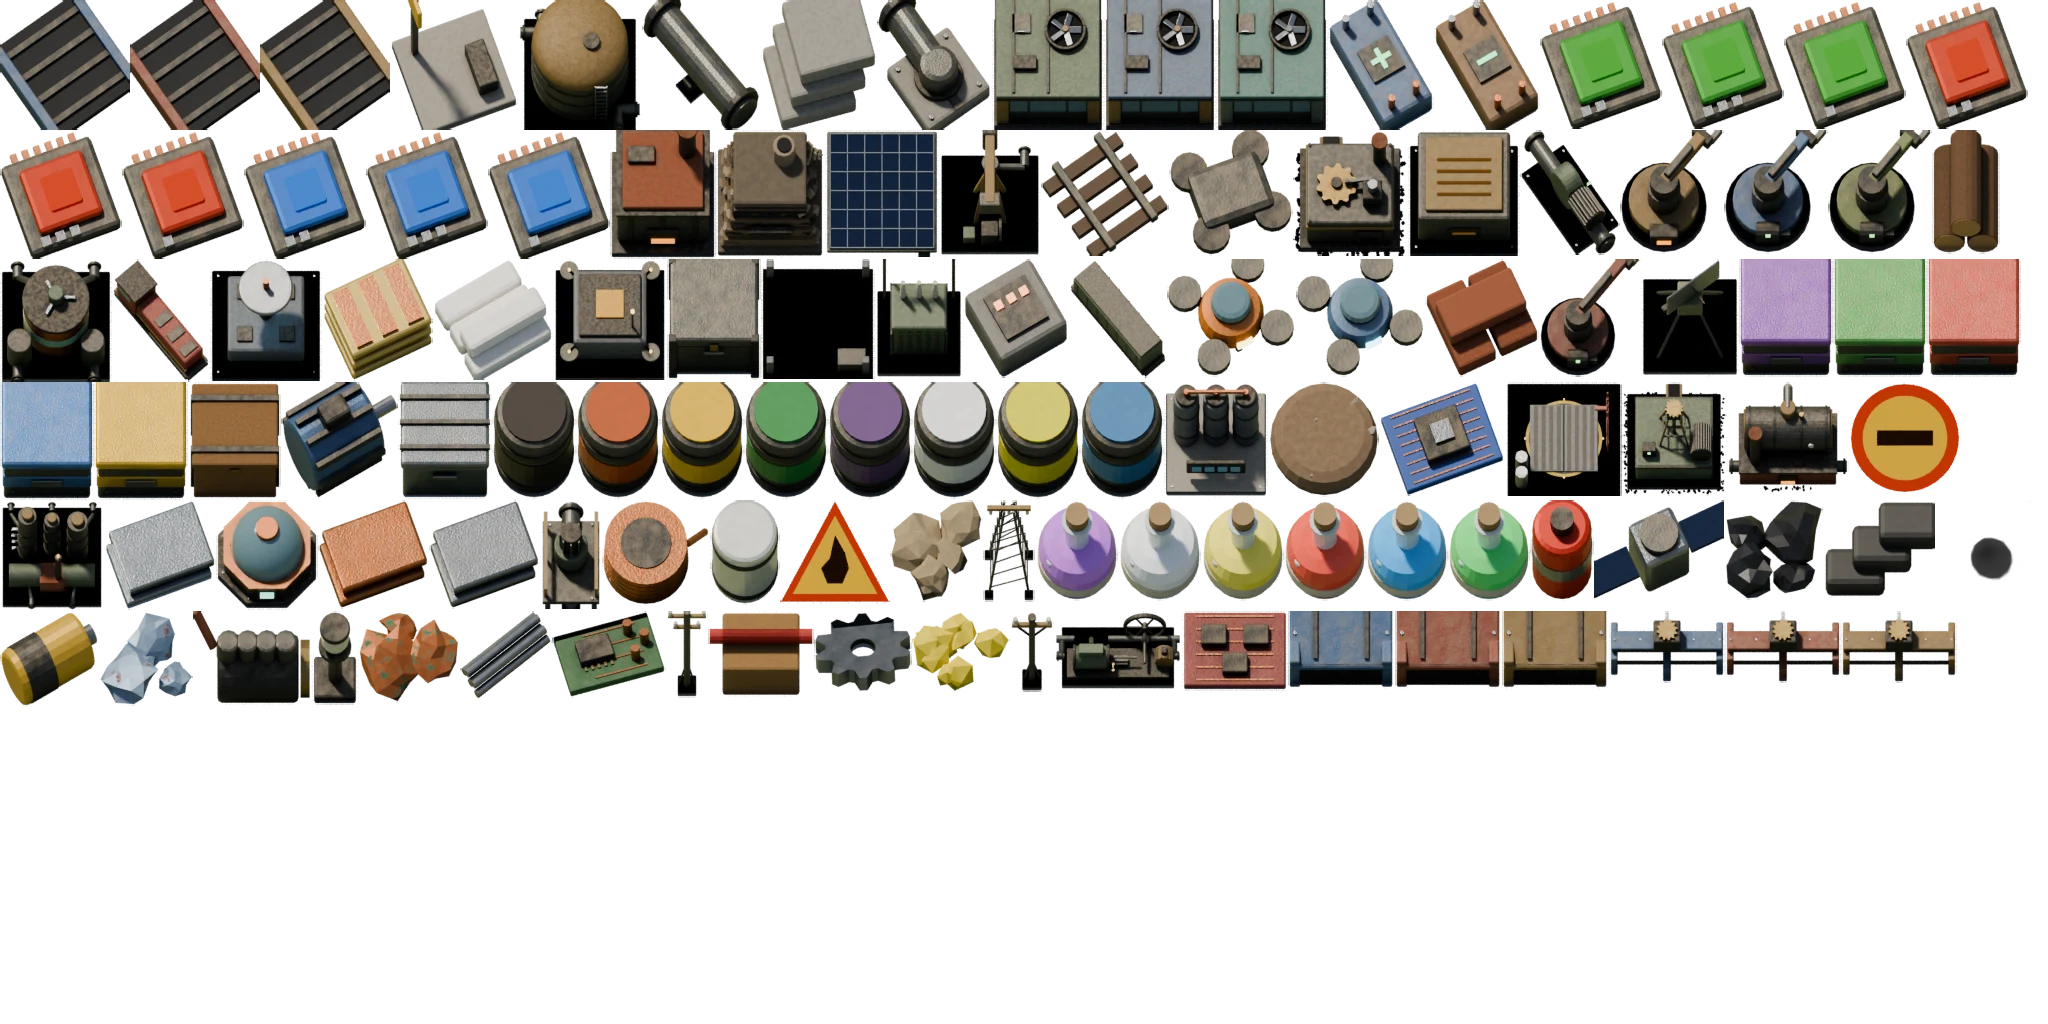
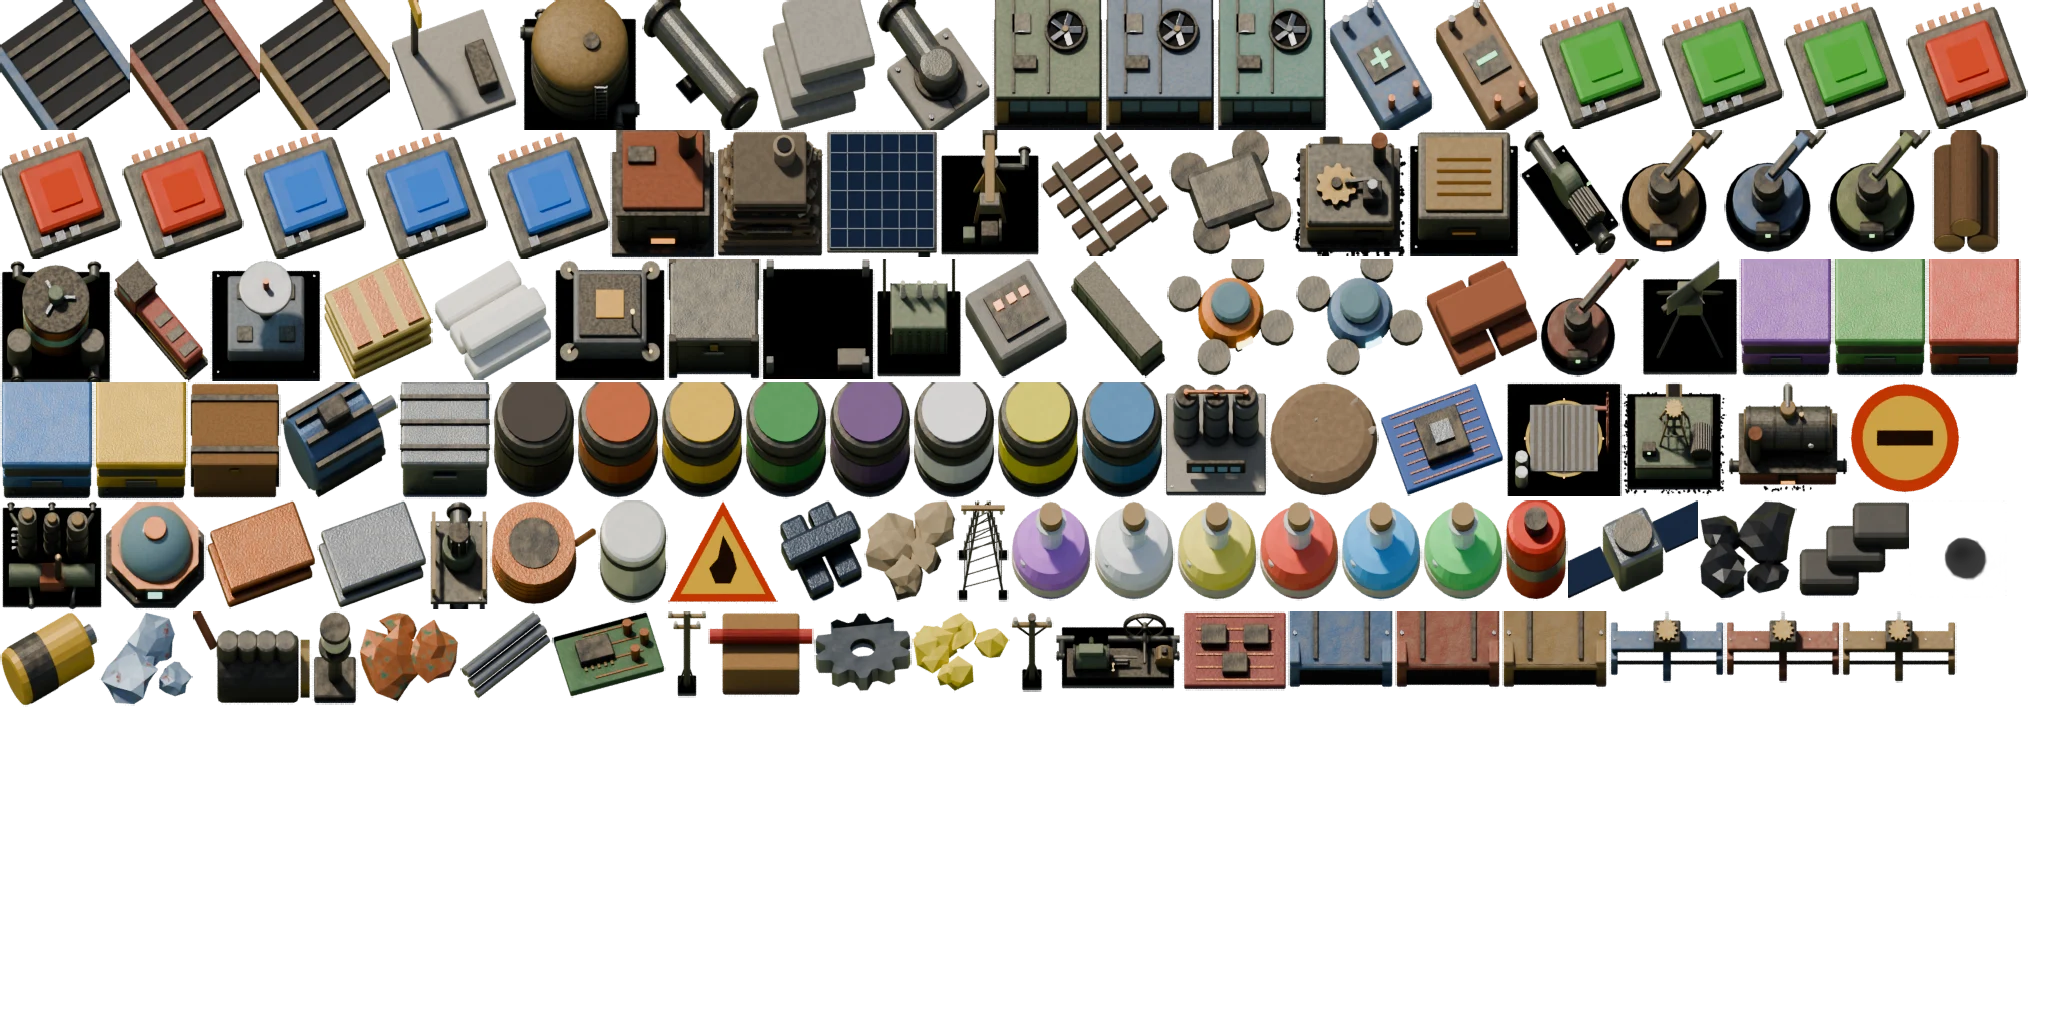
Gottmodus (?god), Handwerk verliert nichts mehr, Stahl-Symbol unterscheidbar
- Gottmodus als eigener Link: Handabbau 40 Stück/s, Bäume/Gebäude sofort, Handwerk ×20, Laufen ×2,
  Reichweite ×3; im Spielstand gespeichert, Titel zeigt GOTTMODUS
- Volles Inventar beim Handwerk: Ergebnis wird neben die Figur geschüttet statt verworfen (World.spill)
- Stahlblech-Symbol: dunkle Barren statt fast gleichem Bild wie Eisenblech
- Tests: tests/sim/god.test.ts (40/s, Speichern, keine Platten per Hand, nichts geht verloren), e2e für ?god

Claude-Session: https://claude.ai/code/session_01DMSy2RgXXE7AE2FbsS9DG8

Changed region(s): [[0.0312, 0.4688, 1.0, 0.5938]]

diff --git a/src/sim/player.ts b/src/sim/player.ts
@@ -1,7 +1,7 @@
 import { entityDef } from '../data/entities';
 import { ITEMS } from '../data/items';
 import { MAPGEN } from '../data/mapgen';
-import { PLAYER, START_INVENTORY } from '../data/player';
+import { GOD, PLAYER, START_INVENTORY } from '../data/player';
 import { RECIPES, type RecipeDef, craftingRecipeFor } from '../data/recipes';
 import { RESOURCE_BY_INDEX } from '../data/resources';
 import { secondsToTicks } from '../data/time';
@@ -55,6 +55,9 @@ export class Player {
   onCrafted: (item: string, n: number) => void = () => {};
   /** Von der Welt gesetzt: Verbrauch melden (Statistik). */
   onUsed: (item: string, n: number) => void = () => {};
+  /** Gottmodus (Testhilfe, `?god`): schneller Abbau, Handwerk, Laufen, Reichweite. */
+  god = false;
+  private godAcc = 0;
   /** Vom Spieler abgebaute Gebäude (für Rückgängig; vom Spiel geleert). */
   readonly minedLog: { name: string; x: number; y: number; dir: number }[] = [];
 
@@ -97,7 +100,7 @@ export class Player {
     this.prevPy = this.py;
     this.updateMovement(world);
     this.updateMining(world);
-    this.updateCrafting();
+    this.updateCrafting(world);
     if (this.pickingUp && world.tick % 4 === 0) this.pickUpGround(world);
   }
 
@@ -128,7 +131,7 @@ export class Player {
     this.walking = mx !== 0 || my !== 0;
     if (!this.walking) return;
     if (mx !== 0 || my !== 0) this.facing = my < 0 ? 0 : my > 0 ? 2 : mx > 0 ? 1 : 3;
-    const speed = Math.round(PLAYER.runningSpeed * SUB);
+    const speed = Math.round(PLAYER.runningSpeed * SUB * (this.god ? GOD.runningFactor : 1));
     // Diagonal: 181/256 ≈ 1/√2
     const diag = mx !== 0 && my !== 0;
     const step = diag ? Math.round((speed * 181) / 256) : speed;
@@ -183,11 +186,23 @@ export class Player {
     // Abstand zum nächsten Punkt des Feldes
     const cx = Math.max(x, Math.min(this.x, x + 1));
     const cy = Math.max(y, Math.min(this.y, y + 1));
-    return Math.hypot(this.x - cx, this.y - cy) <= PLAYER.resourceReachDistance;
+    return Math.hypot(this.x - cx, this.y - cy) <= PLAYER.resourceReachDistance * (this.god ? GOD.reachFactor : 1);
   }
 
   canReach(x: number, y: number): boolean {
-    return this.distanceTo(x, y) <= PLAYER.reachDistance;
+    return this.distanceTo(x, y) <= this.reach;
+  }
+
+  /** Reichweite zum Bauen und Öffnen (Felder). */
+  get reach(): number {
+    return PLAYER.reachDistance * (this.god ? GOD.reachFactor : 1);
+  }
+  get buildDistance(): number {
+    return PLAYER.buildDistance * (this.god ? GOD.reachFactor : 1);
+  }
+  /** Abbautempo: im Gottmodus fast sofort (Bäume, Gebäude). */
+  private mineTicks(seconds: number): number {
+    return this.god ? 1 : Math.max(1, secondsToTicks(seconds / PLAYER.miningSpeed));
   }
 
   private updateMining(world: World): void {
@@ -205,7 +220,7 @@ export class Player {
         this.note('Inventar voll');
         return;
       }
-      this.mineTotal = secondsToTicks(kind.mineTime / PLAYER.miningSpeed);
+      this.mineTotal = this.mineTicks(kind.mineTime);
       if (++this.mineProgress >= this.mineTotal) {
         this.mineProgress = 0;
         if (world.map.trees.remove(tree.cx, tree.cy, tree.i)) {
@@ -227,6 +242,18 @@ export class Player {
         this.note('Inventar voll');
         return;
       }
+      if (this.god) {
+        // Gottmodus: GOD.minePerSecond Stück je Sekunde vom selben Feld
+        this.mineTotal = 1;
+        this.godAcc += GOD.minePerSecond;
+        while (this.godAcc >= 60) {
+          this.godAcc -= 60;
+          if (this.inventory.space(def.result) < 1 || !world.map.mineOne(t.x, t.y)) break;
+          this.inventory.add(def.result, 1);
+          world.stats.made(def.result, 1);
+        }
+        return;
+      }
       this.mineTotal = secondsToTicks(def.miningTime / PLAYER.miningSpeed);
       if (++this.mineProgress >= this.mineTotal) {
         this.mineProgress = 0;
@@ -246,7 +273,7 @@ export class Player {
         this.mineProgress = 0;
         return;
       }
-      this.mineTotal = Math.max(1, secondsToTicks(def.mineTime / PLAYER.miningSpeed));
+      this.mineTotal = this.mineTicks(def.mineTime);
       if (++this.mineProgress >= this.mineTotal) {
         this.mineProgress = 0;
         const rec = { name: e.name, x: e.x, y: e.y, dir: e.dir };
@@ -340,7 +367,7 @@ export class Player {
         const last = k === jobs.length - 1;
         this.craftQueue.push({
           recipe: j,
-          ticks: secondsToTicks(RECIPES[j].time / PLAYER.craftingSpeed),
+          ticks: Math.max(1, secondsToTicks(RECIPES[j].time / (PLAYER.craftingSpeed * (this.god ? GOD.craftingSpeed : 1)))),
           toInventory: last,
           refund: last ? raw : undefined,
         });
@@ -350,7 +377,7 @@ export class Player {
     return done;
   }
 
-  private updateCrafting(): void {
+  private updateCrafting(world: World): void {
     const job = this.craftQueue[0];
     if (!job) return;
     if (--job.ticks > 0) return;
@@ -360,7 +387,11 @@ export class Player {
     if (!job.toInventory) return; // Zwischenprodukt wird vom folgenden Auftrag verbraucht
     for (const res of RECIPES[job.recipe].results) {
       const added = this.inventory.add(res.item, res.amount);
-      if (added < res.amount) this.note('Inventar voll – Ergebnis verloren');
+      if (added < res.amount) {
+        // Inventar voll: Rest fällt neben die Figur (geht nicht verloren)
+        for (let k = added; k < res.amount; k++) world.spill(this.x, this.y, res.item);
+        this.note('Inventar voll – Ergebnis liegt auf dem Boden');
+      }
     }
   }
 

diff --git a/tests/sim/god.test.ts b/tests/sim/god.test.ts
@@ -1,0 +1,53 @@
+import { describe, expect, it } from 'vitest';
+import { RECIPE_LIST } from '../../src/data/recipes';
+import { Player } from '../../src/sim/player';
+import { deserializeWorld, serializeWorld } from '../../src/sim/serialize';
+import { World } from '../../src/sim/world';
+
+function world(): World {
+  const w = new World(3);
+  w.map.clearTrees(-20, -20, 20, 20);
+  for (let y = -10; y < 10; y++) for (let x = -10; x < 10; x++) {
+    w.map.setWater(x, y, false);
+    w.map.setResource(x, y, 0, 0);
+  }
+  w.player = new Player(0.5, 0.5);
+  return w;
+}
+
+describe('Gottmodus und Handwerk', () => {
+  it('Gottmodus: 40 Erz je Sekunde von Hand, Speichern behält den Modus', () => {
+    const w = world();
+    const p = w.player!;
+    w.map.setResource(1, 0, 1, 10_000);
+    p.god = true;
+    p.setMineTarget({ kind: 'resource', x: 1, y: 0 });
+    w.run(60);
+    expect(p.inventory.count('iron-ore')).toBe(40);
+    const b = deserializeWorld(JSON.parse(JSON.stringify(serializeWorld(w))));
+    expect(b.player!.god).toBe(true);
+    // ohne Gottmodus: 0,5 Abbau / 1 s Erz → 2 s je Stück
+    const v = world();
+    v.map.setResource(1, 0, 1, 10_000);
+    v.player!.setMineTarget({ kind: 'resource', x: 1, y: 0 });
+    v.run(60 * 4);
+    expect(v.player!.inventory.count('iron-ore')).toBe(2);
+  });
+
+  it('Handwerk erzeugt nie Platten (nur Ofen) und verliert bei vollem Inventar nichts', () => {
+    const w = world();
+    const p = w.player!;
+    p.inventory.add('iron-plate', 4);
+    for (const r of RECIPE_LIST) {
+      if (r.results.some((x) => x.item.endsWith('-plate'))) expect(p.craftableCount(r.id), r.id).toBe(0);
+    }
+    expect(p.craft('steel-plate', 1)).toBe(0);
+    expect(p.inventory.count('iron-plate')).toBe(4);
+    // volles Inventar: Zahnräder landen auf dem Boden statt zu verschwinden
+    expect(p.craft('iron-gear-wheel', 2)).toBe(2);
+    for (let i = 0; i < p.inventory.size; i++) if (!p.inventory.slots[i]) p.inventory.slots[i] = { item: 'stone', count: 50 };
+    w.run(60 * 2);
+    const ground = [...w.ground.values()].flat().filter((g) => g.item === 'iron-gear-wheel').length;
+    expect(ground + p.inventory.count('iron-gear-wheel')).toBe(2);
+  });
+});

diff --git a/src/game/game.ts b/src/game/game.ts
@@ -1,6 +1,5 @@
 import { entityDef, sizeOf } from '../data/entities';
 import { ITEMS } from '../data/items';
-import { PLAYER } from '../data/player';
 import { RESOURCE_BY_INDEX } from '../data/resources';
 import type { SpriteLib } from '../render/assets';
 import { type Ghost, GameRenderer, type RenderUi } from '../render/renderer';
@@ -67,7 +66,7 @@ export class Game {
     this.input = new Input(renderer.app.canvas);
     this.hud = new Hud(root, this, sprites);
     this.applySceneCamera(scene);
-    this.hud.setTitle(scene.title);
+    this.hud.setTitle(scene.world.player?.god ? `${scene.title} · GOTTMODUS` : scene.title);
     if (this.creative) this.cursorItem = 'transport-belt';
   }
 
@@ -85,7 +84,7 @@ export class Game {
     this.creative = creative;
     this.acc = 0;
     this.lastAutosaveTick = world.tick;
-    this.hud.setTitle(creative ? 'Sandkasten' : `Freies Spiel · Karte ${world.seed}`);
+    this.hud.setTitle(creative ? 'Sandkasten' : `Freies Spiel${world.player?.god ? ' · GOTTMODUS' : ''} · Karte ${world.seed}`);
     if (world.player) {
       this.renderer.camera.x = world.player.px / 256;
       this.renderer.camera.y = world.player.py / 256;
@@ -430,7 +429,7 @@ export class Game {
     const chk = this.world.canPlace(place, x, y, dir);
     let ok = chk.ok;
     const p = this.world.player;
-    if (p && !this.creative && p.distanceTo(x + w / 2, y + h / 2) > PLAYER.buildDistance) ok = false;
+    if (p && !this.creative && p.distanceTo(x + w / 2, y + h / 2) > (p.buildDistance)) ok = false;
     return { name: place, x, y, dir, ok };
   }
 
@@ -676,7 +675,7 @@ export class Game {
       const p = this.world.player;
       if (!p || p.inventory.count(def.item) < 1) return false;
       const [w, h] = sizeOf(def, g.dir);
-      if (p.distanceTo(g.x + w / 2, g.y + h / 2) > PLAYER.buildDistance) return false;
+      if (p.distanceTo(g.x + w / 2, g.y + h / 2) > (p.buildDistance)) return false;
     }
     return this.world.canPlace(g.name, g.x, g.y, g.dir).ok;
   }

diff --git a/src/main.ts b/src/main.ts
@@ -17,6 +17,9 @@ async function main(): Promise<void> {
   });
   const renderer = await GameRenderer.create(root, sprites);
   const scene = createScene(sceneName, seed);
+  // Gottmodus (?god): neue Runde mit schnellem Abbau/Handwerk zum Testen
+  const god = params.has('god');
+  if (god && scene.world.player) scene.world.player.god = true;
   const warp = Number(params.get('warp') ?? 0);
   if (warp > 0) scene.world.run(Math.min(warp, 60 * 60 * 30));
   const game = new Game(root, renderer, sprites, scene, debug);
@@ -26,7 +29,7 @@ async function main(): Promise<void> {
   (window as unknown as { eisenwerk: Game }).eisenwerk = game;
   document.body.dataset.ready = '1';
   // Weiterspielen anbieten, wenn es Spielstände gibt (nur beim normalen Start des freien Spiels)
-  if (sceneName === 'freeplay' && !params.has('seed') && !params.has('new')) void game.hud.offerContinue();
+  if (sceneName === 'freeplay' && !params.has('seed') && !params.has('new') && !god) void game.hud.offerContinue();
 }
 
 main().catch((err) => {

diff --git a/src/sim/world.ts b/src/sim/world.ts
@@ -327,6 +327,23 @@ export class World {
     return true;
   }
 
+  /** Item in der Nähe auf den Boden legen: freie Stelle spiralförmig um (px, py) suchen (wie Ausschütten im Original). */
+  spill(px: number, py: number, item: string): boolean {
+    const step = GROUND_SPACING;
+    for (let ring = 0; ring < 40; ring++) {
+      if (ring === 0) {
+        if (this.dropGround(px, py, item)) return true;
+        continue;
+      }
+      for (let i = -ring; i <= ring; i++) {
+        for (const [dx, dy] of [[i, -ring], [i, ring], [-ring, i], [ring, i]] as const) {
+          if (this.dropGround(px + dx * step, py + dy * step, item)) return true;
+        }
+      }
+    }
+    return false;
+  }
+
   takeGround(tx: number, ty: number, accept: (item: string) => boolean = () => true): string | null {
     const k = tileKey(tx, ty);
     const list = this.ground.get(k);

diff --git a/src/sim/robots.ts b/src/sim/robots.ts
@@ -285,8 +285,8 @@ export class RobotSystem {
     }
     if (!best) {
       // kein Hangar mehr: Roboter landet als Item auf dem Boden
-      w.dropGround(r.x, r.y, r.kind);
-      for (const s of r.cargo) for (let k = 0; k < s.count; k++) w.dropGround(r.x, r.y, s.item);
+      w.spill(r.x, r.y, r.kind);
+      for (const s of r.cargo) for (let k = 0; k < s.count; k++) w.spill(r.x, r.y, s.item);
       r.cargo = [];
       this.retask(r, { t: 'home', port: -1 });
       return;
@@ -299,7 +299,7 @@ export class RobotSystem {
     for (const s of r.cargo) {
       let left = s.count;
       if (c && c.kind === 'container') left -= c.inventory.add(s.item, left);
-      for (let k = 0; k < left; k++) w.dropGround(r.x, r.y, s.item);
+      for (let k = 0; k < left; k++) w.spill(r.x, r.y, s.item);
     }
     r.cargo = [];
   }

diff --git a/src/sim/serialize.ts b/src/sim/serialize.ts
@@ -77,6 +77,7 @@ interface PlayerData {
   mine: MineTarget | null;
   mineProgress: number;
   mineTotal: number;
+  god?: boolean;
 }
 
 export function serializeWorld(w: World): SaveData {
@@ -117,6 +118,7 @@ export function serializeWorld(w: World): SaveData {
         mine: p.mineTarget ? { ...p.mineTarget } : null,
         mineProgress: p.mineProgress,
         mineTotal: p.mineTotal,
+        god: p.god,
       }
       : null,
   };
@@ -155,6 +157,7 @@ export function deserializeWorld(d: SaveData): World {
     const pd = d.player;
     const p = new Player(0, 0);
     p.px = pd.px;
+    p.god = !!pd.god;
     p.py = pd.py;
     p.prevPx = pd.ppx;
     p.prevPy = pd.ppy;

diff --git a/e2e/start.spec.ts b/e2e/start.spec.ts
@@ -51,3 +51,11 @@ test('Demo: Stromteil, Forschungsfenster und Übersichtskarte', async ({ page })
   await page.screenshot({ path: 'test-results/research.png' });
   expect(errors).toEqual([]);
 });
+
+test('Gottmodus-Link: neue Runde mit Gottmodus, ohne Weiterspielen-Dialog', async ({ page }) => {
+  const errors = await openScene(page, '?god');
+  await expect(page.locator('.hud-info')).toContainText('GOTTMODUS');
+  const god = await page.evaluate(() => (window as unknown as { eisenwerk: { world: { player: { god: boolean } } } }).eisenwerk.world.player.god);
+  expect(god).toBe(true);
+  expect(errors).toEqual([]);
+});

diff --git a/src/data/player.ts b/src/data/player.ts
@@ -17,6 +17,18 @@ export const PLAYER = {
   groundPickupDistance: 1,
 } as const;
 
+/**
+ * Gottmodus (eigener Link `?god`, Testhilfe – nicht im Original): schneller Handabbau, Handwerk, Laufen, Reichweite.
+ */
+export const GOD = {
+  /** Handabbau von Erz/Stein/Kohle: Stück je Sekunde. */
+  minePerSecond: 40,
+  /** Faktor für Handwerk, Laufen und Reichweite. */
+  craftingSpeed: 20,
+  runningFactor: 2,
+  reachFactor: 3,
+} as const;
+
 /** Freeplay-Startausrüstung. */
 export const START_INVENTORY: readonly { item: string; amount: number }[] = [
   { item: 'iron-plate', amount: 8 },

diff --git a/src/ui/hud.ts b/src/ui/hud.ts
@@ -1186,7 +1186,7 @@ export class Hud {
         location.reload();
       });
     });
-    btn('Neues Spiel (neue Karte)', () => { location.search = '?new'; });
+    btn('Neues Spiel (neue Karte)', () => { location.search = this.game.world.player?.god ? '?god' : '?new'; });
     el('div', 'hint', body).textContent = `Karte ${this.game.world.seed} · Autosave alle 5 Minuten und beim Schließen des Tabs`;
     const saves = await listSaves().catch(() => []);
     if (saves.length) {

diff --git a/assets/blender/models/items.py b/assets/blender/models/items.py
@@ -173,12 +173,24 @@ def render_new(out):
     finish(out, 'item.fast-transport-belt', root, scale=0.95)
 
 
+def steel_ingots(m):
+    """Stahl: dunkle, bläuliche, dicke Barren mit Fase, über Kreuz gestapelt (deutlich anders als Eisenblech)."""
+    import bauten
+    st = bauten.weathered('a_steelingot', '#3e4855', metal=0.95, rough=0.3, rust=0.0, dust=0.1, edge=0.6, grime=0.1)
+    o = []
+    for k, (x, y, z, rot) in enumerate(((-0.12, 0, 0.07, 0), (0.12, 0, 0.07, 0), (0, 0, 0.21, 90))):
+        o.append(eisen.box(f'ingot{k}', (0.2, 0.62, 0.14), (x, y, z), st, bevel=0.035, rot=(0, 0, math.radians(rot))))
+    root = eisen.parent_all(o, 'steel')
+    root.rotation_euler = (0, 0, math.radians(25))
+    return root
+
+
 def render_early(out):
     """Items der frühen Phase (Holz, Stahl, Masten, Montage 2 …)."""
     import bauten
     simple = [
         ('wood', lambda m: anlagen.wood_logs(m), 1.0),
-        ('steel-plate', lambda m: anlagen.steel_plates(m), 1.0),
+        ('steel-plate', steel_ingots, 1.0),
         ('engine-unit', lambda m: anlagen.engine_unit(m), 1.15),
         ('landfill', lambda m: anlagen.landfill_pile(m), 1.1),
         ('wooden-chest', lambda m: anlagen.wooden_chest(m), 0.8),

diff --git a/docs/GAME_DATA.md b/docs/GAME_DATA.md
@@ -305,6 +305,12 @@ Silo 9×9, 4 MW, Tempo 1, 4 Module; Raketenteil 10 Leichtbauteile + 10 Prozessor
 100 Teile je Rakete; 1632 Ticks je Start; Satellit → 1000 Weltraum-Pakete am Fracht-Landeplatz (8×8, 80 Plätze) ~29 s
 nach dem Start. Erster Start: Sieg.
 
+## Gottmodus (Testhilfe, nicht im Original, `src/data/player.ts` GOD)
+
+Link `?god` startet eine neue Runde: Handabbau 40 Stück/s, Bäume und Gebäude sofort, Handwerk ×20, Laufen ×2,
+Reichweite ×3. Der Modus wird im Spielstand gespeichert. Volles Inventar beim Handwerk: Ergebnis wird neben die Figur
+geschüttet (wie im Original), nicht mehr verworfen.
+
 ## Messvorschläge (Quelle 3)
 
 1. **Seitliches Einspeisen, Spurzuordnung:** Hauptband 5 Felder nach Osten. Von Süden ein Band auf
